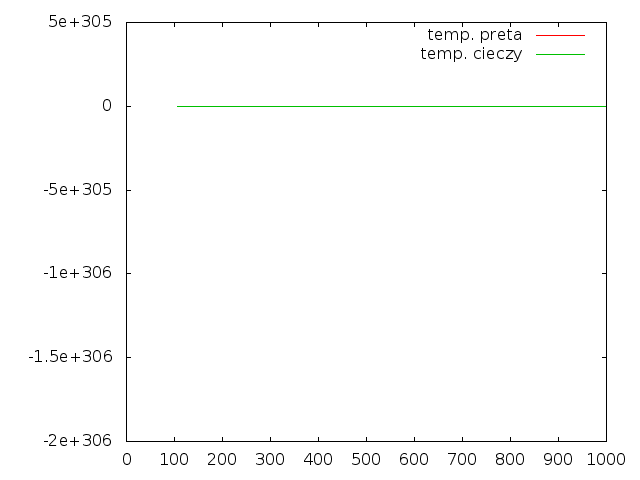
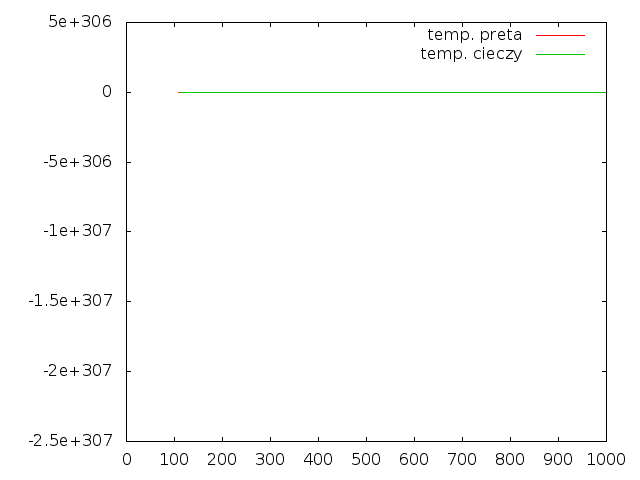
Test.

diff --git a/project/main.c b/project/main.c
@@ -144,8 +144,9 @@ int main(int argc, char **argv){
 	}
 	
 	if( bool3 == 0 ){
-		printf ( "0\n" ); //
+	
 		cool_data = przebiegnij( cool_data );
+
 	} else {
 		// bisektor() ???
 		// ...

diff --git a/project/czas.c b/project/czas.c
@@ -1,7 +1,7 @@
 #include "struct.h"
 
 double cw( cool_t cool_data){ 
-	return 0.07;
+	return 0.2;
 }
 
 cool_t przebiegnij( cool_t cool_data){
